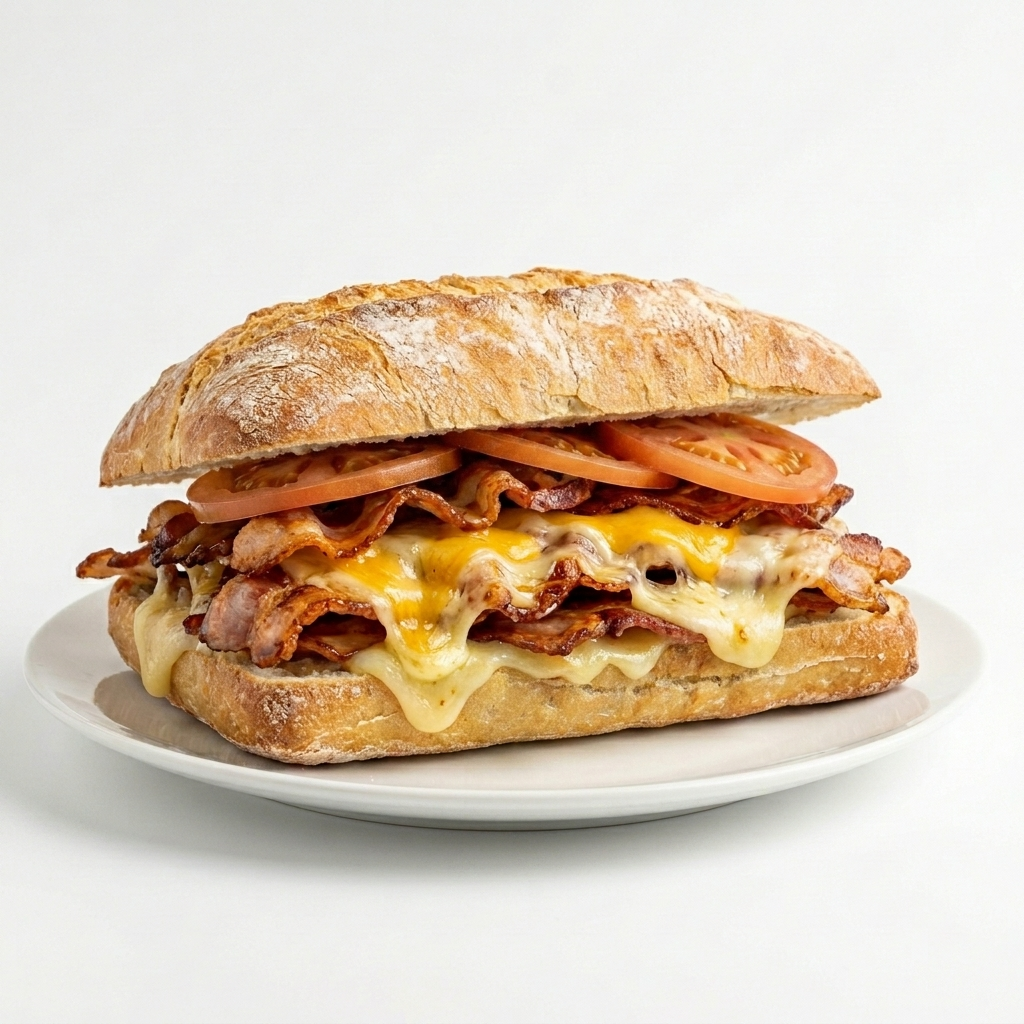
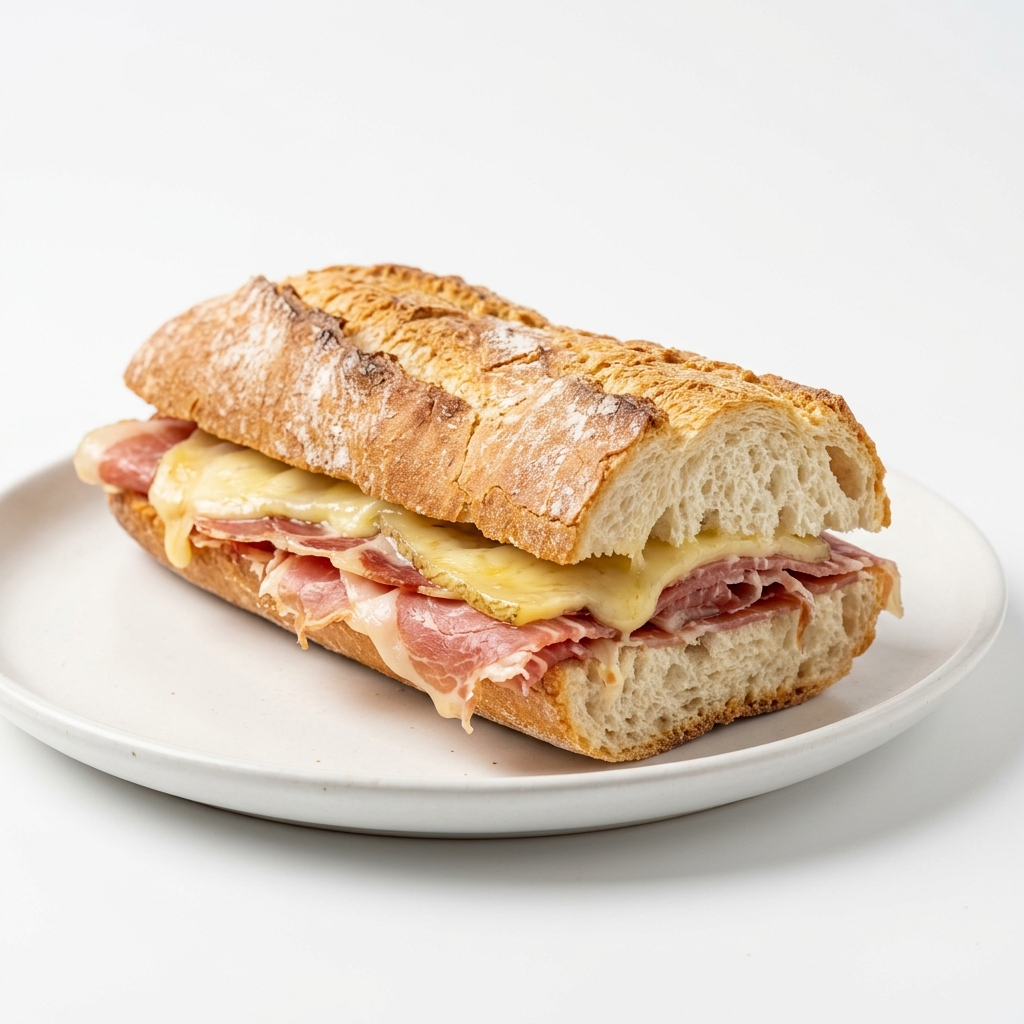
Menú TV: reordenar slides, añadir Smoothies y Tardeo, actualizar imágenes bocadillos y cañas

diff --git a/menus televicion/Desayunos Küme.html b/menus televicion/Desayunos Küme.html
@@ -621,36 +621,7 @@
 <body>
 <deck-stage width="1920" height="1080">
 
-  <!-- ░░ 1 · PORTADA ░░ -->
-  <section data-label="Portada" class="cover">
-    <div class="cover-text">
-      <div class="cover-brand">
-        <span class="mark">Küme</span>
-        <span class="loc">Benimaclet · València</span>
-      </div>
-      <h1 class="cover-title serif">Carta de<br/><em>Desayunos</em></h1>
-      <p class="cover-sub">Café de especialidad y pastelería argentina para empezar el día sin prisa. Tostadas, croissants y medialunas recién hechas.</p>
-      <div class="cover-meta">
-        <div class="item">
-          <p class="k">Clásicos</p>
-          <p class="v">desde 3 €</p>
-        </div>
-        <div class="item">
-          <p class="k">Especiales</p>
-          <p class="v">desde 5,50 €</p>
-        </div>
-        <div class="item">
-          <p class="k">Brunch</p>
-          <p class="v">desde 6,50 €</p>
-        </div>
-      </div>
-    </div>
-    <div class="cover-photo">
-      <img src="images/croissant.jpg" alt="Café con croissant y zumo natural"/>
-    </div>
-  </section>
-
-  <!-- ░░ 2 · CLÁSICOS ░░ -->
+  <!-- ░░ 1 · CLÁSICOS ░░ -->
   <section data-label="Desayunos Clásicos" class="board">
     <div class="board-head">
       <p class="eyebrow">Lunes a Viernes</p>
@@ -865,39 +836,39 @@
     </div>
     <div class="drink-grid drink-3x3">
       <div class="drink-card">
-        <div class="drink-thumb sq" style="background-image:url('images/drinks/sm-caribbean.png');background-size:cover;background-position:center;background-repeat:no-repeat"></div>
+        <div class="drink-thumb sq grid-bg sm-grid" style="background-image:url('images/drinks/sm-collage.png');background-position:0% 0%"></div>
         <div class="drink-info"><p class="drink-name">Caribbean Passion</p><p class="drink-ingr">Mango · Melocotón · Piña · Zanahoria</p><p class="drink-price">5 €</p></div>
       </div>
       <div class="drink-card">
-        <div class="drink-thumb sq" style="background-image:url('images/drinks/sm-colada.png');background-size:cover;background-position:center;background-repeat:no-repeat"></div>
+        <div class="drink-thumb sq grid-bg sm-grid" style="background-image:url('images/drinks/sm-collage.png');background-position:50% 0%"></div>
         <div class="drink-info"><p class="drink-name">Colada Jungle</p><p class="drink-ingr">Coco · Piña · Plátano</p><p class="drink-price">5 €</p></div>
       </div>
       <div class="drink-card">
-        <div class="drink-thumb sq" style="background-image:url('images/drinks/sm-dragon.png');background-size:cover;background-position:center;background-repeat:no-repeat"></div>
+        <div class="drink-thumb sq grid-bg sm-grid" style="background-image:url('images/drinks/sm-collage.png');background-position:100% 0%"></div>
         <div class="drink-info"><p class="drink-name">Dragon Fruit Mix</p><p class="drink-ingr">Mango · Fresa · Pitahaya</p><p class="drink-price">5 €</p></div>
       </div>
       <div class="drink-card">
-        <div class="drink-thumb sq" style="background-image:url('images/drinks/sm-berries.png');background-size:cover;background-position:center;background-repeat:no-repeat"></div>
+        <div class="drink-thumb sq grid-bg sm-grid" style="background-image:url('images/drinks/sm-collage.png');background-position:0% 50%"></div>
         <div class="drink-info"><p class="drink-name">Berries Passion</p><p class="drink-ingr">Mango · Cereza · Arándanos · Fresa</p><p class="drink-price">5 €</p></div>
       </div>
       <div class="drink-card">
-        <div class="drink-thumb sq" style="background-image:url('images/drinks/sm-vitality.png');background-size:cover;background-position:center;background-repeat:no-repeat"></div>
+        <div class="drink-thumb sq grid-bg sm-grid" style="background-image:url('images/drinks/sm-collage.png');background-position:50% 50%"></div>
         <div class="drink-info"><p class="drink-name">Vitality</p><p class="drink-ingr">Plátano · Fresa</p><p class="drink-price">5 €</p></div>
       </div>
       <div class="drink-card">
-        <div class="drink-thumb sq" style="background-image:url('images/drinks/sm-sunny.png');background-size:cover;background-position:center;background-repeat:no-repeat"></div>
+        <div class="drink-thumb sq grid-bg sm-grid" style="background-image:url('images/drinks/sm-collage.png');background-position:100% 50%"></div>
         <div class="drink-info"><p class="drink-name">Sunny Splash</p><p class="drink-ingr">Mango · Lima · Piña · Maracuyá</p><p class="drink-price">5 €</p></div>
       </div>
       <div class="drink-card">
-        <div class="drink-thumb sq" style="background-image:url('images/drinks/sm-tropical.png');background-size:cover;background-position:center;background-repeat:no-repeat"></div>
+        <div class="drink-thumb sq grid-bg sm-grid" style="background-image:url('images/drinks/sm-collage.png');background-position:0% 100%"></div>
         <div class="drink-info"><p class="drink-name">Tropical Heaven</p><p class="drink-ingr">Kiwi · Mango · Piña</p><p class="drink-price">5 €</p></div>
       </div>
       <div class="drink-card">
-        <div class="drink-thumb sq" style="background-image:url('images/drinks/sm-redbliss.png');background-size:cover;background-position:center;background-repeat:no-repeat"></div>
+        <div class="drink-thumb sq grid-bg sm-grid" style="background-image:url('images/drinks/sm-collage.png');background-position:50% 100%"></div>
         <div class="drink-info"><p class="drink-name">Red Bliss</p><p class="drink-ingr">Plátano · Arándanos · Pitahaya · Mora</p><p class="drink-price">5 €</p></div>
       </div>
       <div class="drink-card">
-        <div class="drink-thumb sq" style="background-image:url('images/drinks/sm-green.png');background-size:cover;background-position:center;background-repeat:no-repeat"></div>
+        <div class="drink-thumb sq grid-bg sm-grid" style="background-image:url('images/drinks/sm-collage.png');background-position:100% 100%"></div>
         <div class="drink-info"><p class="drink-name">Green Power</p><p class="drink-ingr">Brócoli · Pepino · Espinacas · Mango</p><p class="drink-price">5 €</p></div>
       </div>
     </div>
@@ -978,7 +949,7 @@
         </div>
       </article>
       <article class="card card-boc">
-        <div class="card-boc-photo"><img src="images/bocadillo-pequeno.png" alt="Bocadillo pequeño" style="transform:scale(1.7);"/></div>
+        <div class="card-boc-photo"><img src="images/bocadillo-pequeno.png" alt="Bocadillo pequeño"/></div>
         <div class="card-boc-body">
           <p class="card-pre">Pequeño</p>
           <h3 class="card-name">Bocadillo</h3>